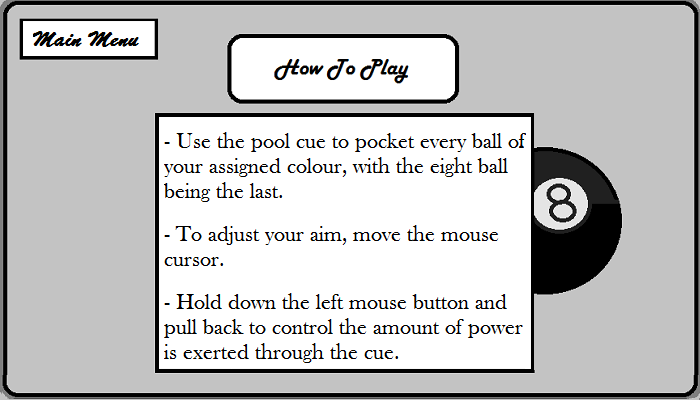
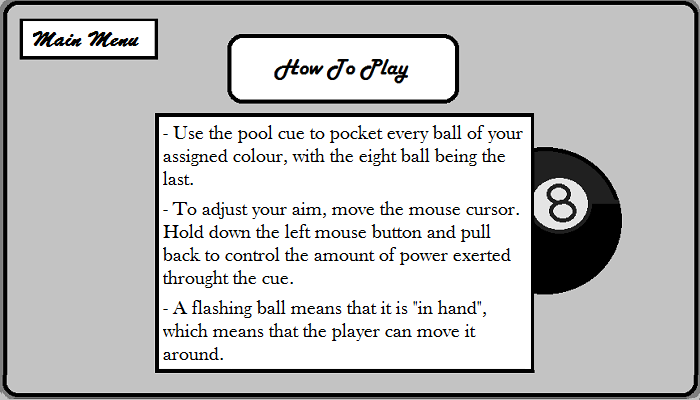
Drag ball when in hand, and update instruction screen

Changed region(s): [[0.21, 0.3, 0.75, 0.9]]

diff --git a/8_ball_pool.py b/8_ball_pool.py
@@ -2,7 +2,7 @@
 # To do:
     # Physics: "Fixed angle of the cue ball after impact"..."Fixed ball collisions bug (check out the '.in contact; variable"
         #..."maybe check the ball/wall collisions for every pixel of movement "..."ball guide line"
-    # Gameplay: "Ball in hand (made it pulse at the right time)"..."Drag the ball"..."End game scenarios"..."
+    # Gameplay: "End game scenarios"..."
     # Presentation: "Player names?"...
 # Name: Matthew Uy
 # Date: January 22, 2016
@@ -36,6 +36,7 @@ ball_pocketed_in_this_shot = False
 # ball in hand variables
 cue_ball_in_hand = False
 cue_ball_opacity = 100
+cue_ball_dragged = False
 
 show_instructions = False # a variable for the menu
 mouse_held = False   # if the mouse is currently holding the cue
@@ -532,28 +533,45 @@ while not done:
                 mouse_held = True
                 orig_mouse_x = mouse_x
                 orig_mouse_y = mouse_y
-            # the duration of time WHILE the mouse is being clicked/held
-            elif mouse_left == True and mouse_held == True:
-                # The amount the cue will move will depend on ...
-                # ... the distance between the current mouse ...
-                # ... position and the position it was at when clicked
-                
-                mouse_distance_travelled = get_distance(orig_mouse_x, orig_mouse_y, mouse_x, mouse_y)
-                if mouse_distance_travelled > 100: # limit the distance that the cue can be pulled back
-                    mouse_distance_travelled = 100
 
-                # now move the cue backwards along the same angle
-                cue_buffer = mouse_distance_travelled
-        
-                # change the amount of power/ball speed it will transfer
-                # ... depending of the distance between the cue and the cue ball
-                cue_ball.speed = mouse_distance_travelled/7
+                # enable ball dragging if the ball is in hand, AND the mouse has clicked on the ball
+                if orig_mouse_x < cue_ball.x + 10 and  orig_mouse_x > cue_ball.x - 10:
+                        if orig_mouse_y < cue_ball.y + 10 and orig_mouse_y > cue_ball.y - 10:
+                            cue_ball_dragged = True
+            # the duration of time WHILE the mouse is being clicked/held
+            elif mouse_left == True and mouse_held == True:                
+            # in the case that the ball is in hand
+                if cue_ball_in_hand:
+                    if cue_ball_dragged == True:
+                            cue_ball.x = mouse_x
+                            cue_ball.y = mouse_y
+                            print "ball has been clicked while ball in hand"
+
+
+                else:
+                    # The amount the cue will move will depend on ...
+                    # ... the distance between the current mouse ...
+                    # ... position and the position it was at when clicked
+                    
+                    mouse_distance_travelled = get_distance(orig_mouse_x, orig_mouse_y, mouse_x, mouse_y)
+                    if mouse_distance_travelled > 100: # limit the distance that the cue can be pulled back
+                        mouse_distance_travelled = 100
+
+                    # now move the cue backwards along the same angle
+                    cue_buffer = mouse_distance_travelled
+            
+                    # change the amount of power/ball speed it will transfer
+                    # ... depending of the distance between the cue and the cue ball
+                    cue_ball.speed = mouse_distance_travelled/7
+
+
                 
             # mouse is released AFTER being clicked at first (previous elif statement)
             elif mouse_left == False and mouse_held == True:
                 # if the ball is in hand, "remove" in from that hand...
                 if cue_ball_in_hand:
                     cue_ball_in_hand = False
+                    cue_ball_dragged = False
                 current_shot_count += 1
                 cue_buffer = 0  # reset the cue buffer (the amount the cue moved while the mouse was being held)
                 # set the cue ball variables and set the balls_in_movement variable in motion
@@ -587,6 +605,9 @@ while not done:
         if cue_ball_in_hand:
             # pulse the cue ball, when the ball is in hand
             white_r, white_g, white_b, ball_pulse_multiplier, WHITE = pulse_cue_ball(white_r, white_g, white_b, ball_pulse_multiplier, WHITE)
+        else:
+            # reset the white colour values
+            WHITE = (255, 255, 255) # cue ball            # duplicate?
         
         # Get the angle between the mouse and the cue ball
         mouse_degs = get_angle(cue_ball.x, cue_ball.y, mouse_x, mouse_y)
